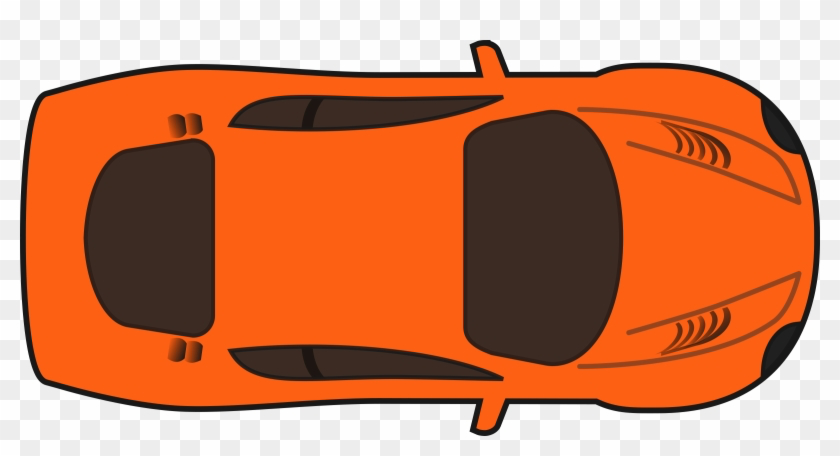
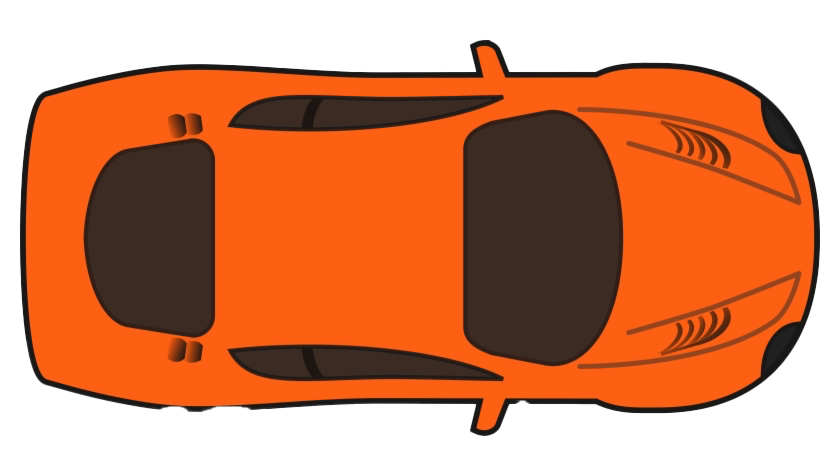
track border added, car rotation, starting position

diff --git a/isabel_practice_file.py b/isabel_practice_file.py
@@ -1,0 +1,108 @@
+#imports
+import pygame
+from pygame.locals import *
+pygame.init()
+from utils import scale_image, blit_rotate_center
+
+# Set up the drawing window
+WIDTH = 700
+HEIGHT = 700
+screen = pygame.display.set_mode((WIDTH, HEIGHT))
+bg_image = pygame.image.load("fin_track-mariocircuit-3.png")
+bg_image = pygame.transform.scale(bg_image, (WIDTH, HEIGHT))
+border = pygame.image.load("fin_trackborder-mariocircuit-3.png")
+border = pygame.transform.scale(border, (WIDTH, HEIGHT))
+# finish line
+orange_car = scale_image(pygame.image.load("orange-car.png"), 0.05) 
+#green_car = scale_image(pygame.image.load("green-car.png"), 0.169)
+
+# title
+pygame.display.set_caption("Race Karting Game!")
+###
+#FPS = 60
+
+class AbstractCar:
+    def __init__(self, max_vel, rotation_vel):
+        self.img = self.IMG
+        self.max_vel = max_vel
+        self.vel = 0
+        self.rotation_vel = rotation_vel
+        self.angle = 90
+        self.x, self.y = self.start_pos
+        self.acceleration = 0.5
+
+    def rotate(self, left=False, right=False):
+        if left:
+            self.angle += self.rotation_vel
+        elif right:
+            self.angle -= self.rotation_vel
+
+    def draw(self, screen):
+        blit_rotate_center(screen, self.img, (self.x, self.y), self.angle)
+
+    def move_forward(self):
+        self.vel = min(self.vel + self.acceleration, self.max_vel)
+        self.move()
+
+    def move(self):
+        self.x += self.vel
+
+class PlayerCar(AbstractCar):
+    IMG = orange_car
+    start_pos = (10, 305)
+
+def draw(screen, player_car):
+#     for img, pos in images:
+#         screen.blit(img, pos)
+    
+    player_car.draw(screen)
+    pygame.display.update()
+
+# class PlayerCar2(AbstractCar):
+#     IMG = green_car
+#     start_pos = (25, 305)
+
+# def draw(screen, player_car2):
+#     for img, pos in images:
+#         screen.blit(img, pos)
+    
+    # player_car2.draw(screen)
+    # pygame.display.update()
+
+# Run until the user asks to quit
+running = True
+images = [bg_image, (0,0)]
+player_car = PlayerCar(100,50)
+# player_car2 = PlayerCar2(4,4)
+clock = pygame.time.Clock()
+while running:
+   # clock.tick(FPS) # while loop cannot run any faster than 60 frames per second
+    draw(screen, player_car)
+    # draw(screen, player_car2)
+   # updates the drawing window
+    screen.blit(bg_image, (0, 0))
+    screen.blit(border, (0,0))
+   # screen.blit(orange_car,(0,0))
+    # finish line
+
+    #pygame.display.update()
+
+     # Did the user click the window close button?
+    for event in pygame.event.get():
+     if event.type == pygame.QUIT:
+        running = False
+        break
+     
+     #change the angle by pressing a key
+     keys = pygame.key.get_pressed()
+
+     if keys[pygame.K_a]:
+         player_car.rotate(left=True)
+     if keys[pygame.K_d]:
+         player_car.rotate(right=True)
+     if keys[pygame.K_w]:
+         player_car.move_forward()
+         
+
+# Done! Time to quit.
+pygame.quit() 

diff --git a/MK.py b/MK.py
@@ -2,38 +2,86 @@
 import pygame
 from pygame.locals import *
 pygame.init()
+from utils import scale_image, blit_rotate_center
 
 # Set up the drawing window
-WIDTH = 1000
-HEIGHT = 1000
+WIDTH = 750
+HEIGHT = 750
 screen = pygame.display.set_mode([WIDTH, HEIGHT])
 bg_image = pygame.image.load('images/fin_track-mariocircuit-3.png')
 bg_image = pygame.transform.scale(bg_image, (WIDTH, HEIGHT))
+border = pygame.image.load('images/fin_trackborder-mariocircuit-3.png')
+border = pygame.transform.scale(border, (WIDTH, HEIGHT))
 # track border
 # finish line
-orange_car = pygame.image.load("images/orange-car.png") 
-green_car = pygame.image.load("images/green-car.png")
+orange_car = scale_image(pygame.image.load("images/orange-car.png"), 0.05) 
 # title
 pygame.display.set_caption("Race Karting Game!")
-###
+
 FPS = 60
+###################### NEW START
+
+class AbstractCar:
+    def __init__(self, max_vel, rotation_vel):
+        self.img = self.IMG
+        self.max_vel = max_vel
+        self.vel = 0
+        self.rotation_vel = rotation_vel
+        self.angle = 90
+        self.x, self.y = self.start_pos
+
+    def rotate(self, left=False, right=False):
+        if left:
+            self.angle += self.rotation_vel
+        elif right:
+            self.angle -= self.rotation_vel
+
+    def draw(self, screen):
+        blit_rotate_center(screen, self.img, (self.x, self.y), self.angle)
+
+class PlayerCar(AbstractCar):
+    IMG = orange_car
+    start_pos = (10, 325)
+
+def draw(screen, player_car):
+#     for img, pos in images:
+#         screen.blit(img, pos)
+    
+    player_car.draw(screen)
+    pygame.display.update()
+
+###################### NEW END
+
 
 # Run until the user asks to quit
 running = True
+player_car = PlayerCar(4,4)
 clock = pygame.time.Clock()
 while running:
     clock.tick(FPS) # while loop cannot run any faster than 60 frames per second
-   
+    draw(screen, player_car)
    # updates the drawing window
     screen.blit(bg_image, (0, 0))
+    screen.blit(border, (0,0))
     # finish line
 
-    pygame.display.update()
+   # pygame.display.update()
 
      # Did the user click the window close button?
     for event in pygame.event.get():
         if event.type == pygame.QUIT:
             running = False
+            break
+
+    #change the angle by pressing a key
+        keys = pygame.key.get_pressed()
+
+        if keys[pygame.K_a]:
+            player_car.rotate(left=True)
+        if keys[pygame.K_d]:
+            player_car.rotate(right=True)
+        if keys[pygame.K_w]:
+            player_car.move_forward()
     
 
 # Done! Time to quit.

diff --git a/utils.py b/utils.py
@@ -1,0 +1,9 @@
+import pygame
+def scale_image(img, factor):
+    size = round(img.get_width()*factor),round(img.get_height()*factor)
+    return pygame.transform.scale(img, size)
+
+def blit_rotate_center(screen, image, top_left, angle):
+    rotated_image = pygame.transform.rotate(image, angle)
+    new_rect = rotated_image.get_rect(center=image.get_rect(topleft = top_left).center) #rotate around the center of the image; setting the center of the image as the top left corner bc pygame rotates rectangles from the top left corner
+    screen.blit(rotated_image, new_rect.topleft)
